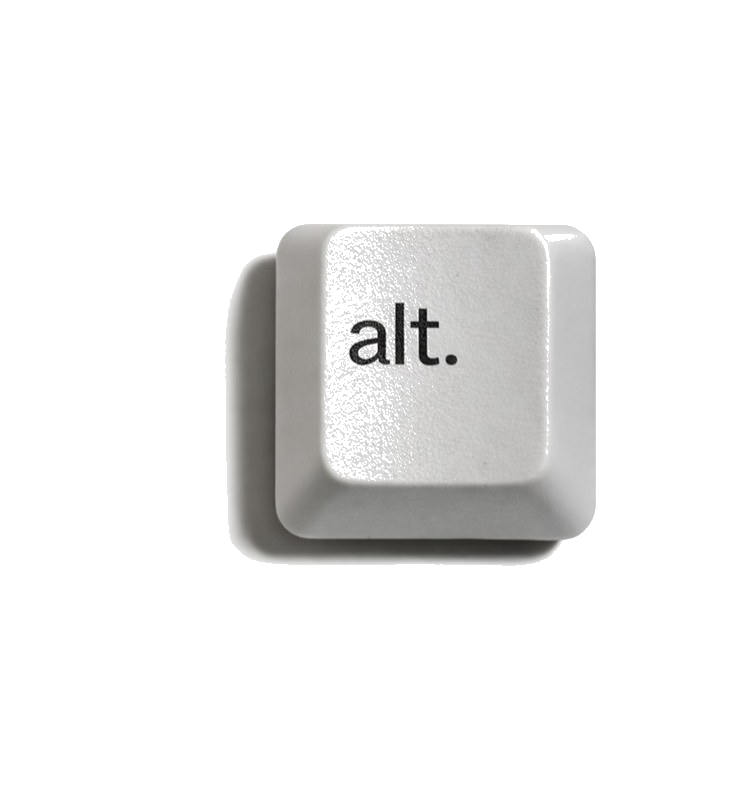
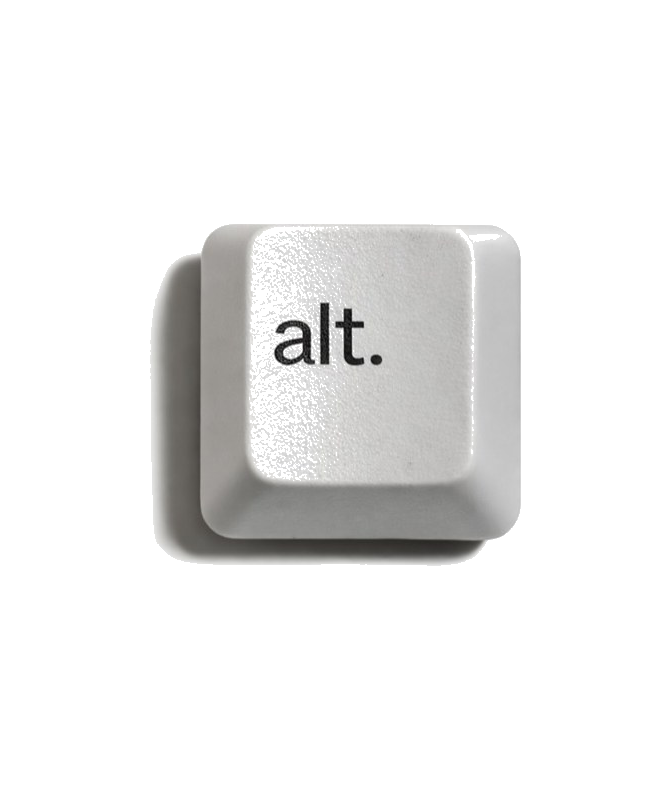
Accueil : ALT MEDIA sur fond blanc, touche alt. centrée
Claude-Session: https://claude.ai/code/session_01SmD7gzR9pXBSTMLSNwzapP

Changed region(s): [[0.209, 0.2734, 0.6269, 0.7291], [0.6866, 0.2734, 0.806, 0.7291]]

diff --git a/index.html b/index.html
@@ -80,6 +80,7 @@ nav .c{margin-right:.22em}
 .proj img{position:absolute;inset:0;width:100%;height:100%;object-fit:cover;opacity:0;transition:opacity .35s ease}
 .proj img.contain{object-fit:contain;padding:calc(var(--big)*2 + 60px) var(--pad) calc(var(--big)*2 + 70px)}
 .proj img.blend{mix-blend-mode:multiply}
+.alt-card img.contain{padding-block:calc(var(--big)*2 + 70px)}
 .proj .ep-card{display:grid;place-items:center;cursor:pointer}
 .ep-card-t{position:relative;font-size:clamp(56px,16vw,240px);line-height:.88;letter-spacing:-.05em;text-align:center}
 .ep-map{position:absolute;inset:0;width:100%;height:100%;display:block}
@@ -239,7 +240,7 @@ body{letter-spacing:-.03em}
     <div class="top g"><span class="tag">Espaces Partagés</span></div>
     <div class="bot g"><span class="sub s">Trouvez un lieu pour votre projet, ou référencez le vôtre.<br>Le site est en ligne.</span><span class="go flip">Voir le projet</span></div>
   </a>
-  <a class="proj" href="#alt-media" style="--bg:var(--lime);--fg:var(--black)">
+  <a class="proj alt-card" href="#alt-media" style="--bg:var(--white);--fg:var(--black)">
     <div class="media"><img src="img/alt-media.png" alt="Touche de clavier alt." class="contain blend on"></div>
     <div class="top g"><span class="tag">ALT MEDIA</span></div>
     <div class="bot g"><span class="sub s">Média indépendant musique &amp; culture. En préparation.</span><span class="go flip">Voir le projet</span></div>
